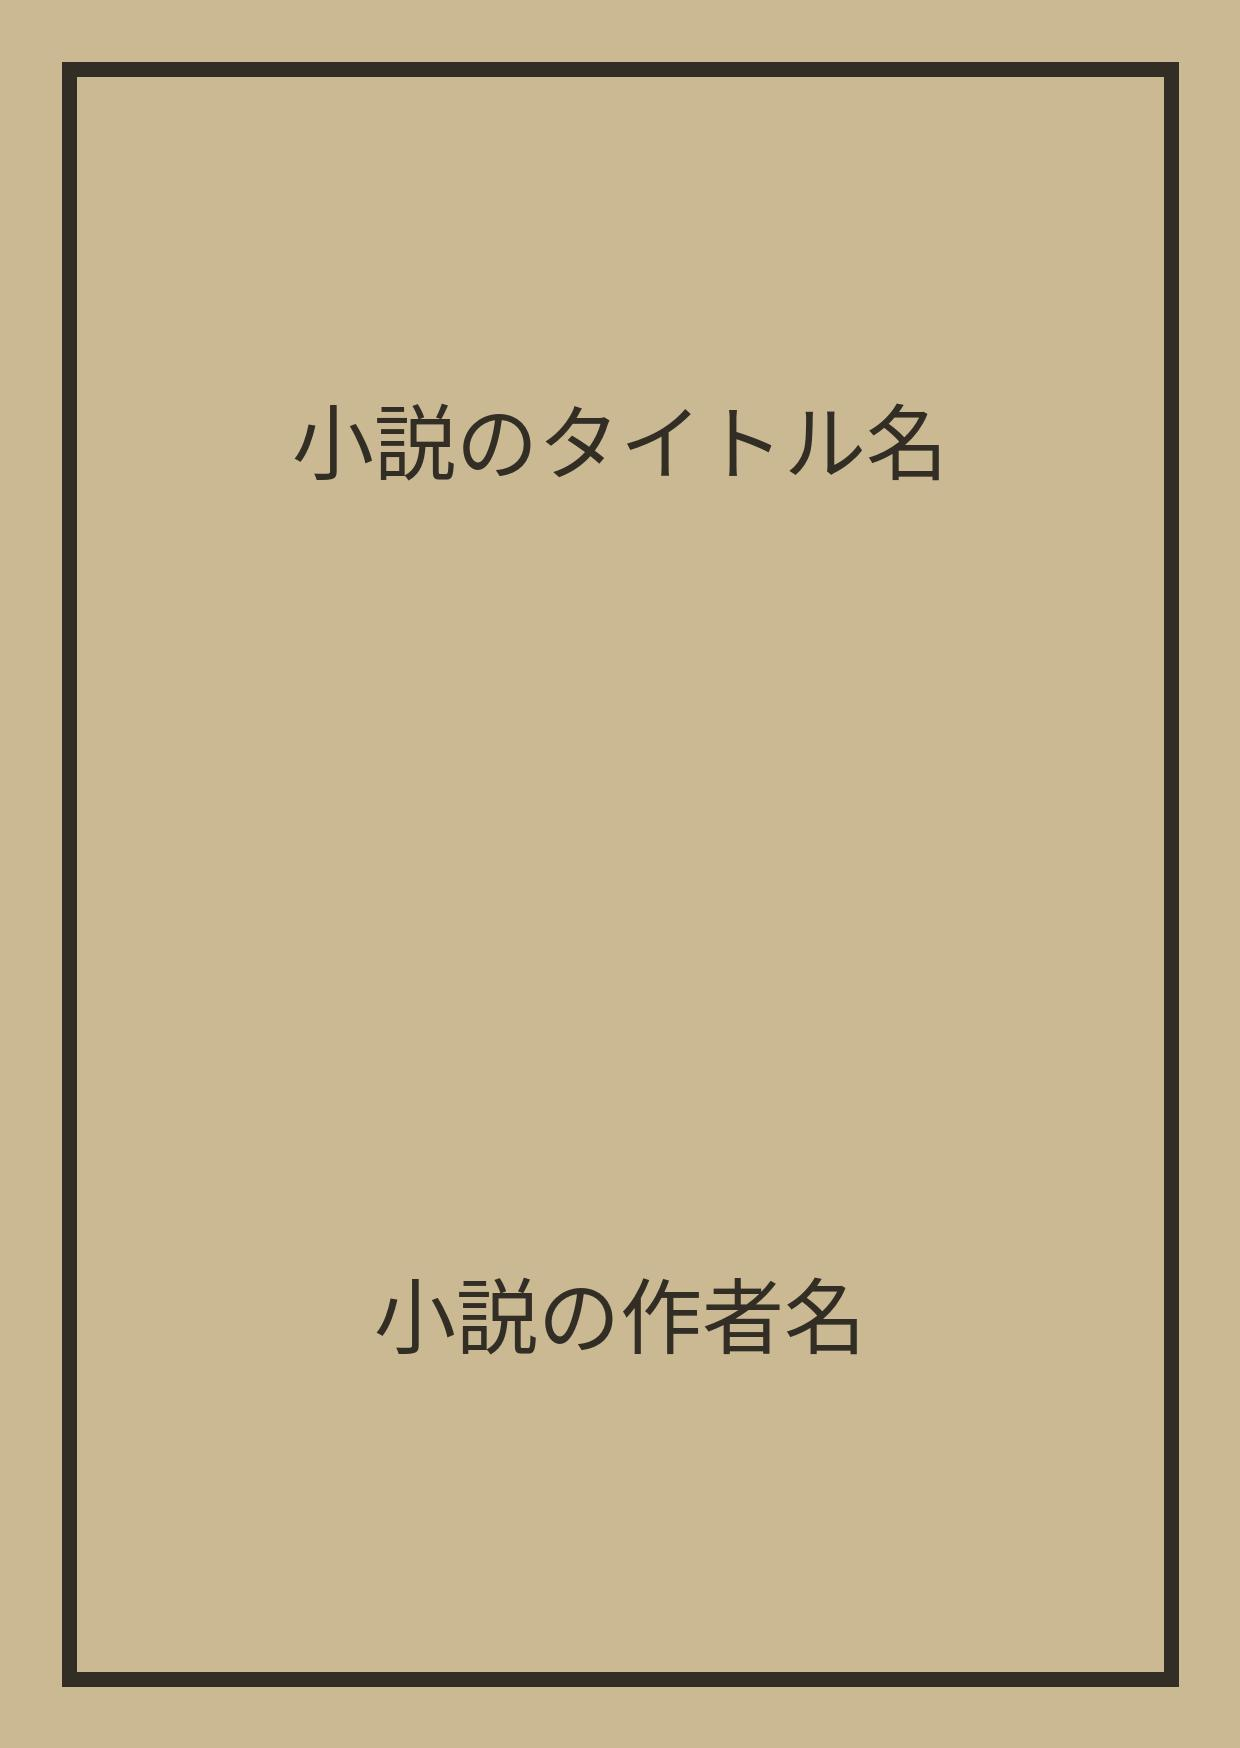
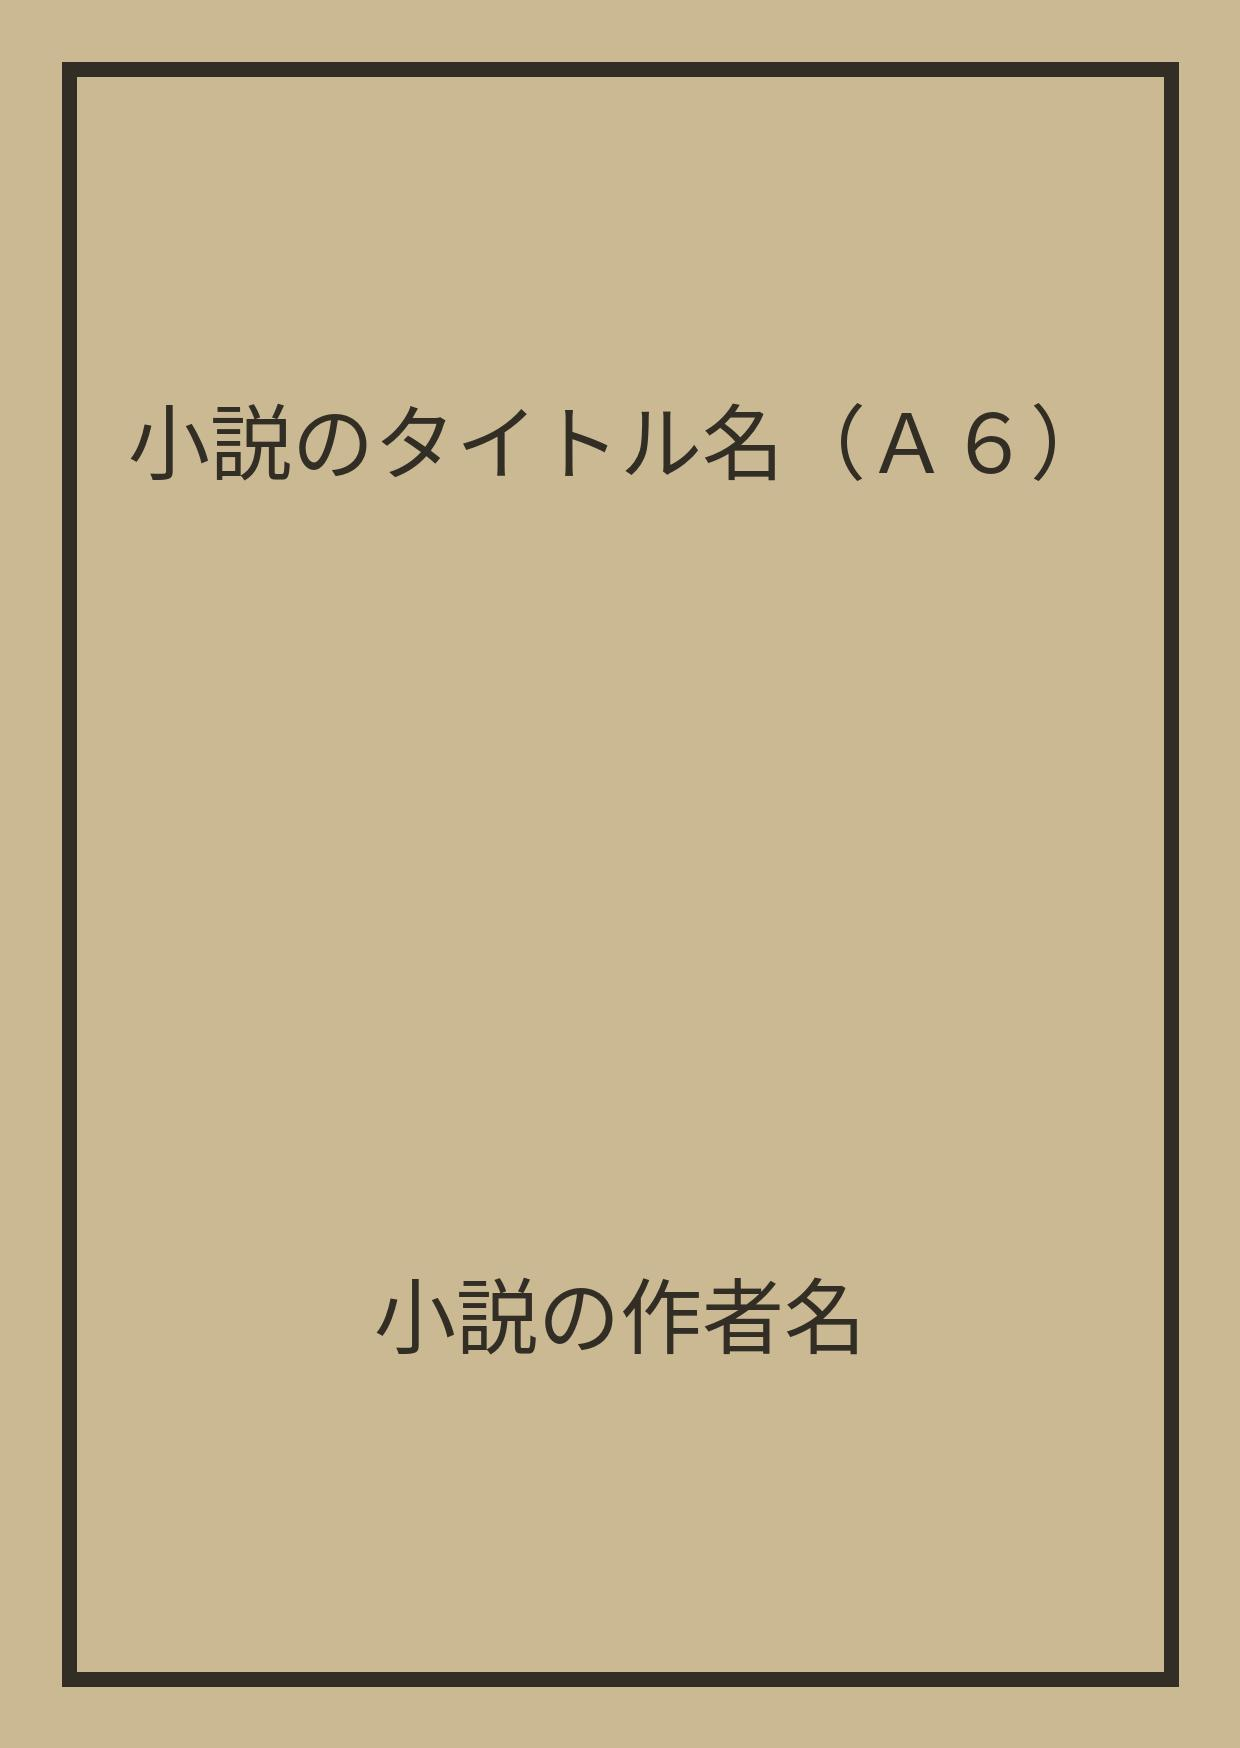
DPI や EXIF 情報を付加した JPEG 表紙画像を生成するようにした。

Changed region(s): [[0.0919, 0.2162, 0.8581, 0.278]]

diff --git a/nepub/cover.py b/nepub/cover.py
@@ -4,9 +4,12 @@ import os
 import textwrap
 import unicodedata
 from io import BytesIO
+from datetime import datetime
 from dataclasses import dataclass
 
+import piexif
 from PIL import Image as PILImage, ImageDraw as PILImageDraw, ImageFont as PILImageFont
+
 from nepub.type import Image as CoverImage
 
 
@@ -35,9 +38,9 @@ class CoverSize:
     @classmethod
     def from_mm(cls, width_mm: float, height_mm: float, dpi: int = 300):
         def px(mm):
-            v = int(mm / 25.4 * dpi)
-            v += 1 if v % 2 == 1 else 0   # ← 三項演算子で偶数化
-            return v
+            v_px = int(mm / 25.4 * dpi)
+            v_px += 1 if v_px % 2 == 1 else 0   # ← 三項演算子で偶数化
+            return v_px
 
         return cls(width=px(width_mm), height=px(height_mm), dpi=dpi)
 
@@ -106,7 +109,7 @@ class CoverGenerator:
         with PILImage.open(path) as img:
             if img.mode != "RGB":
                 img = img.convert("RGB")
-            return self._image_to_bytes(img)
+            return self._image_to_bytes_with_jpeg_metadata(img)
 
     def _create_cover_jpeg(self, title: str, author: str) -> bytes:
         """タイトルと作者名を描画した表紙画像を生成"""
@@ -157,7 +160,16 @@ class CoverGenerator:
             spacing=self.AUTHOR_SPACING,
         )
 
-        return self._image_to_bytes(img)
+        # UserComment のみ ASCII 以外を受け付ける
+        meta = {
+            "ImageDescription": "Web novel cover image for nepub",
+            "Artist": "N/A",
+            "Copyright": "Copyright (c) 2025 mkomuro",
+            "Software": "nepub",
+            "UserComment": f"小説タイトル：{title}／著者：{author}",
+        }
+
+        return self._image_to_bytes_with_jpeg_metadata(img, jpeg_metadata=meta)
 
     # ------------------------------------------------------------
     # Utility Methods
@@ -210,10 +222,105 @@ class CoverGenerator:
             return PILImageFont.truetype(self.FONT_PATH, font_size)
         return PILImageFont.load_default()
 
-    def _image_to_bytes(self, img: PILImage.Image) -> bytes:
-        """PIL Image → JPEG bytes"""
+    def _make_exif_user_comment(self, text: str) -> bytes:
+        """
+        EXIF 2.3: https://www.cipa.jp/std/documents/j/DC-008-2012_J.pdf
+
+        表 9 文字コードと文字コード欄記入方法:
+            | 文字コード |           コード記入方法 (8Bytes)             |   リファレンス    |
+            |-----------+----------------------------------------------+------------------+
+            |   ASCII   |41.H, 53.H, 43.H, 49.H, 49.H, 00.H, 00.H, 00.H|  ITU-T T.50 IA5  |
+            |    JIS    |4A.H, 49.H, 53.H, 00.H, 00.H, 00.H, 00.H, 00.H|  JIS X0208-1990  |
+            |  Unicode  |55.H, 4E.H, 49.H, 43.H, 4F.H, 44.H, 45.H, 00.H| Unicode Standard |
+            | Undefined |00.H, 00.H, 00.H, 00.H, 00.H, 00.H, 00.H, 00.H|    Undefined     |
+
+        EXIF 3.0: CIPA DC-008-2024 (https://www.cipa.jp/j/std/std-sec.html)
+
+        表 4 文字コードと文字コード欄記入方法:
+            |           |                          |      準拠規格 / 参照先       |
+            | 文字コード |    識別コード (8Bytes)    |  符号化方式   |   文字集合   |
+            |-----------+--------------------------+-----------------------------+
+            |   ASCII   |41.53.43.49. 49.00.00.00.H|      ANSI INCITS 4[17]      |
+            |    JIS    |4A.49.53.00. 00.00.00.00.H|ISO-2022-JP[5]| JIS 漢字[6]  |
+            |  Unicode  |55.4E.49.43. 4F.44.45.00.H|   UTF-8[22]  | Unicode[21]  |
+            | Undefined |00.00.00.00. 00.00.00.00.H|      -       |       -      |
+
+        上記の表によれば UserComment に入れる文字列の先頭 8 バイトは "Unicode\0" を
+        指定しなければならない。しかし、"UNICODE\x00" を指定しないと Linux、Windows の
+        いずれの場合も正しく表示されないため、実際には実装依存のようだ。
+        尚、EXIF では UTF-8 ではなく UTF-16 へエンコードしておく方が良いようだ。
+        """
+        prefix = b"UNICODE\x00"
+        return prefix + text.encode("utf-16-be")
+
+    def _image_to_bytes_with_jpeg_metadata(
+        self,
+        img: PILImage.Image,
+        jpeg_metadata: dict | None = None,
+    ) -> bytes:
+        """
+        PIL Image → JPEG bytes
+        jpeg_metadata=None の場合は EXIF も DPI も埋め込まない
+        jpeg_metadata が dict の場合のみ EXIF + DPI を埋め込む
+
+        jpeg_metadata = {
+            "ImageDescription": "Web novel cover image for nepub",
+            "Artist": "N/A",
+            "Copyright": "Copyright (c) 2025 mkomuro",
+            "Software": "nepub",
+            "UserComment": f"小説タイトル：{title}／著者：{author}",
+        }
+        """
+
+        # jpeg_metadata が None → EXIF なし、DPI なし
+        if jpeg_metadata is None:
+            buf = BytesIO()
+            img.save(buf, format="JPEG")  # DPI も EXIF も付けない
+            return buf.getvalue()
+
+        # --- jpeg_metadata がある場合のみ EXIF を構築 ---
+        exif_dict = {"0th": {}, "Exif": {}, "GPS": {}, "1st": {}}
+
+        # 1. ユーザー指定メタデータ
+        if "ImageDescription" in jpeg_metadata:
+            exif_dict["0th"][piexif.ImageIFD.ImageDescription] = jpeg_metadata["ImageDescription"]
+
+        if "Artist" in jpeg_metadata:
+            exif_dict["0th"][piexif.ImageIFD.Artist] = jpeg_metadata["Artist"]
+
+        if "Copyright" in jpeg_metadata:
+            exif_dict["0th"][piexif.ImageIFD.Copyright] = jpeg_metadata["Copyright"]
+
+        if "Software" in jpeg_metadata:
+            exif_dict["0th"][piexif.ImageIFD.Software] = jpeg_metadata["Software"]
+
+        # UserComment のみ 日本語 OK (他は ASCII)
+        if "UserComment" in jpeg_metadata:
+            user_comment = self._make_exif_user_comment(jpeg_metadata["UserComment"])
+            exif_dict["Exif"][piexif.ExifIFD.UserComment] = user_comment
+
+        # 2. 自動付与メタデータ（作成日時 + 固定 author）
+        now = datetime.now().strftime("%Y:%m:%d %H:%M:%S")
+        exif_dict["0th"][piexif.ImageIFD.DateTime] = now
+        exif_dict["Exif"][piexif.ExifIFD.DateTimeOriginal] = now
+        exif_dict["Exif"][piexif.ExifIFD.DateTimeDigitized] = now
+
+        # 固定 author を埋め込む（ユーザー指定 Artist より優先, ASCII のみ）
+        FIXED_AUTHOR = "nepub/dev"
+        exif_dict["0th"][piexif.ImageIFD.Artist] = FIXED_AUTHOR
+
+        # EXIF バイナリ化
+        exif_bytes = piexif.dump(exif_dict)
+
+        # --- JPEG 保存（jpeg_metadata がある場合のみ DPI を付ける） ---
         buf = BytesIO()
-        img.save(buf, format="JPEG") #, dpi=(self.img_size.dpi, self.img_size.dpi))
+        img.save(
+            buf,
+            format="JPEG",
+            dpi=(self.img_size.dpi, self.img_size.dpi),
+            exif=exif_bytes,
+        )
+
         return buf.getvalue()
 
 

diff --git a/README.md b/README.md
@@ -94,7 +94,7 @@ nepub -i -t -c <novel_id>
 <img src="./assets/size-A6-short-cover.jpg" alt="サンプルの表紙画像" style="width: 40%; height: auto;">
 </p>
 
-加えて、`-c` に続いてローカルパスにある「JPEG 画像ファイル名」を指定すると、そのファイルを表紙画像として EPUB ファイルに挿入します。
+また、`-c` に続いてローカルパスにある「JPEG 画像ファイル名」を指定すると、上記の自動画像生成の代わりに、パラメータで指定されたファイルを表紙画像として EPUB ファイルに挿入します。
 ```sh
 nepub -i -t -c <jpeg_file> <novel_id>
 ```
@@ -102,17 +102,59 @@ nepub -i -t -c <jpeg_file> <novel_id>
 生成されるデフォルトの JPEG 表紙画像には、以下の属性が設定されています。画像サイズなどの属性を変更したい場合は、コード側の修正が必要です。
 ```sh
 # A6 (300dpi) 相当を期待したピクセル数
-$ file -b size-A6-short-cover.jpg | tr ',' '\n'
-JPEG image data
- JFIF standard 1.01
- aspect ratio
- density 1x1
- segment length 16
- baseline
- precision 8
- 1240x1748
- components 3
+$ exiftool size-A6-short-cover.jpg
+ExifTool Version Number         : 12.76
+File Name                       : size-A6-short-cover.jpg
+Directory                       : .
+File Size                       : 75 kB
+File Modification Date/Time     : 2025:12:30 19:56:31+09:00
+File Access Date/Time           : 2025:12:30 19:57:02+09:00
+File Inode Change Date/Time     : 2025:12:30 19:56:31+09:00
+File Permissions                : -rw-r--r--
+File Type                       : JPEG
+File Type Extension             : jpg
+MIME Type                       : image/jpeg
+JFIF Version                    : 1.01
+Resolution Unit                 : inches
+X Resolution                    : 300
+Y Resolution                    : 300
+Exif Byte Order                 : Big-endian (Motorola, MM)
+Image Description               : Web novel cover image for nepub
+Software                        : nepub
+Modify Date                     : 2025:12:30 19:56:31
+Artist                          : nepub/dev
+Copyright                       : Copyright (c) 2025 mkomuro
+Date/Time Original              : 2025:12:30 19:56:31
+Create Date                     : 2025:12:30 19:56:31
+User Comment                    : 小説タイトル：小説のタイトル名（Ａ６）／著者：小説の作者名
+Image Width                     : 1240
+Image Height                    : 1748
+Encoding Process                : Baseline DCT, Huffman coding
+Bits Per Sample                 : 8
+Color Components                : 3
+Y Cb Cr Sub Sampling            : YCbCr4:2:0 (2 2)
+Image Size                      : 1240x1748
+Megapixels                      : 2.2
 ```
+
+<!--
+$ file -b size-A6-short-cover.jpg | sed 's/, /\n - /g'
+JPEG image data
+ - JFIF standard 1.01
+ - resolution (DPI)
+ - density 300x300
+ - segment length 16
+ - Exif Standard: [TIFF image data
+ - big-endian
+ - direntries=6
+ - description=Web novel cover image for nepub
+ - software=nepub
+ - datetime=2025:12:30 19:56:31]
+ - baseline
+ - precision 8
+ - 1240x1748
+ - components 3
+-->
 
 #### 任意の「タイトル名」と「作者名」を埋め込んだ表紙画像の生成
 任意の「小説タイトル」や「作者名」を埋め込んだ JPEG 表紙画像を、事前に生成することができます。以下は、上記のサンプルと同じ JPEG 表紙画像を生成する際のコマンド例です。
